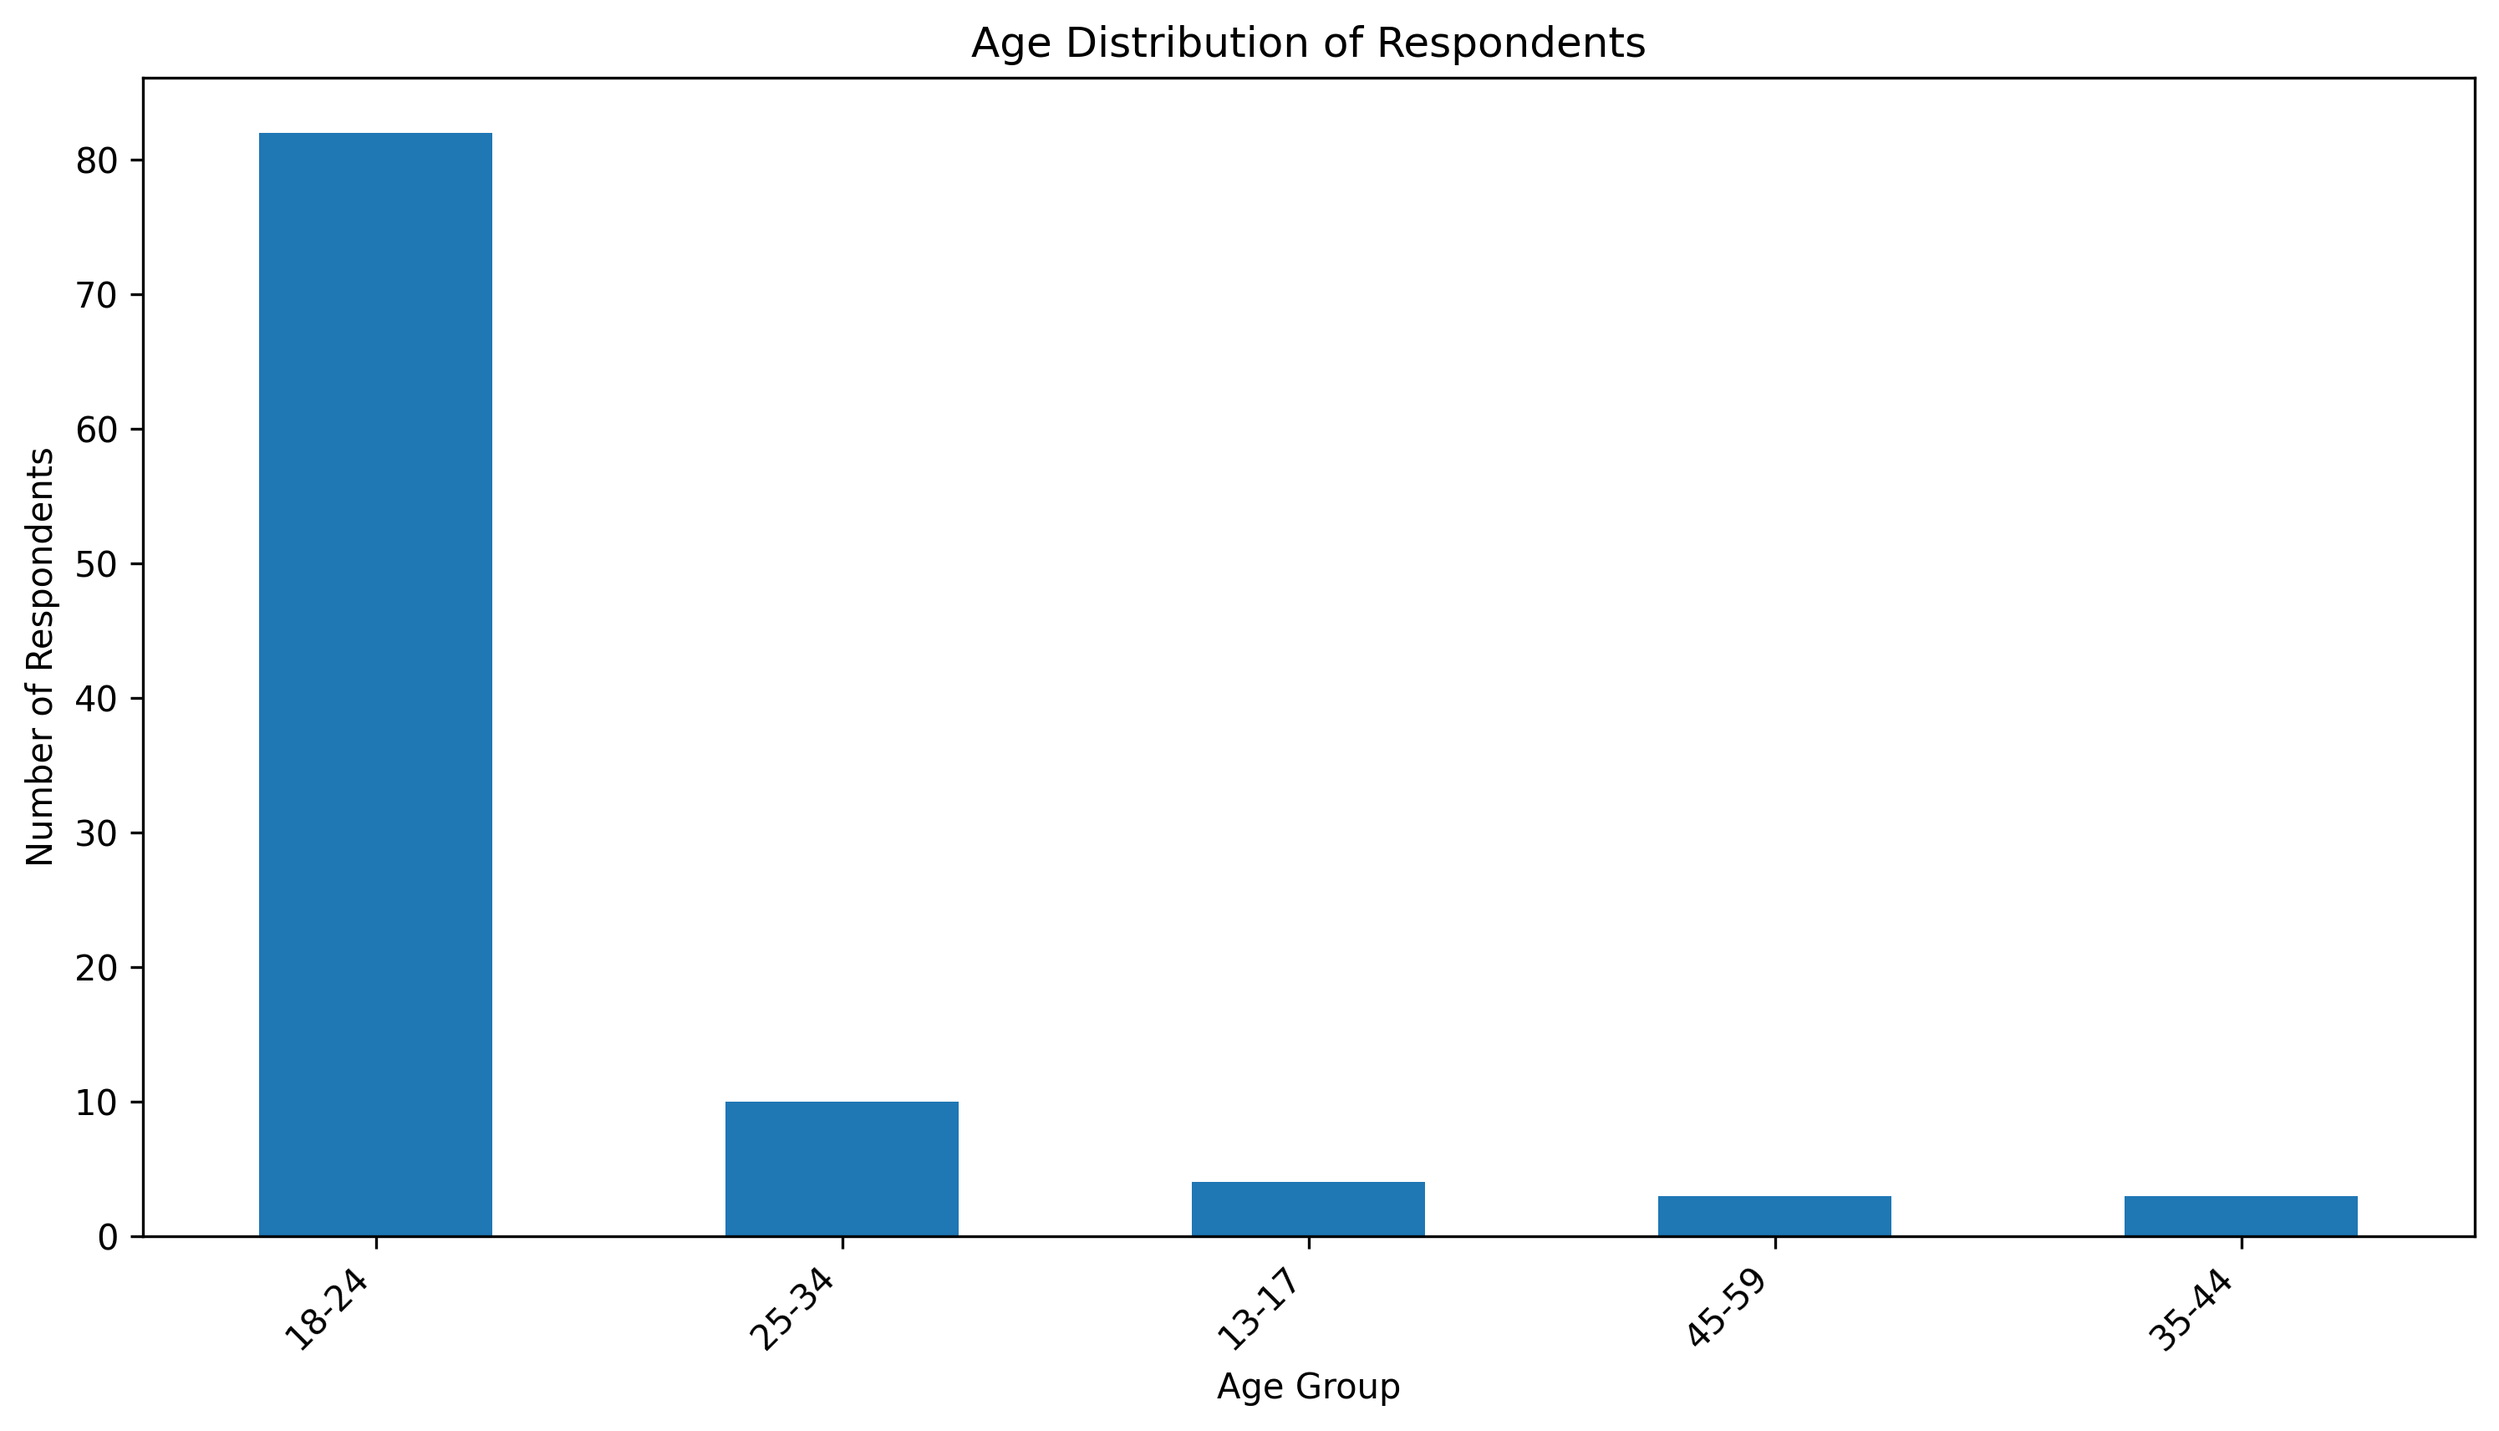
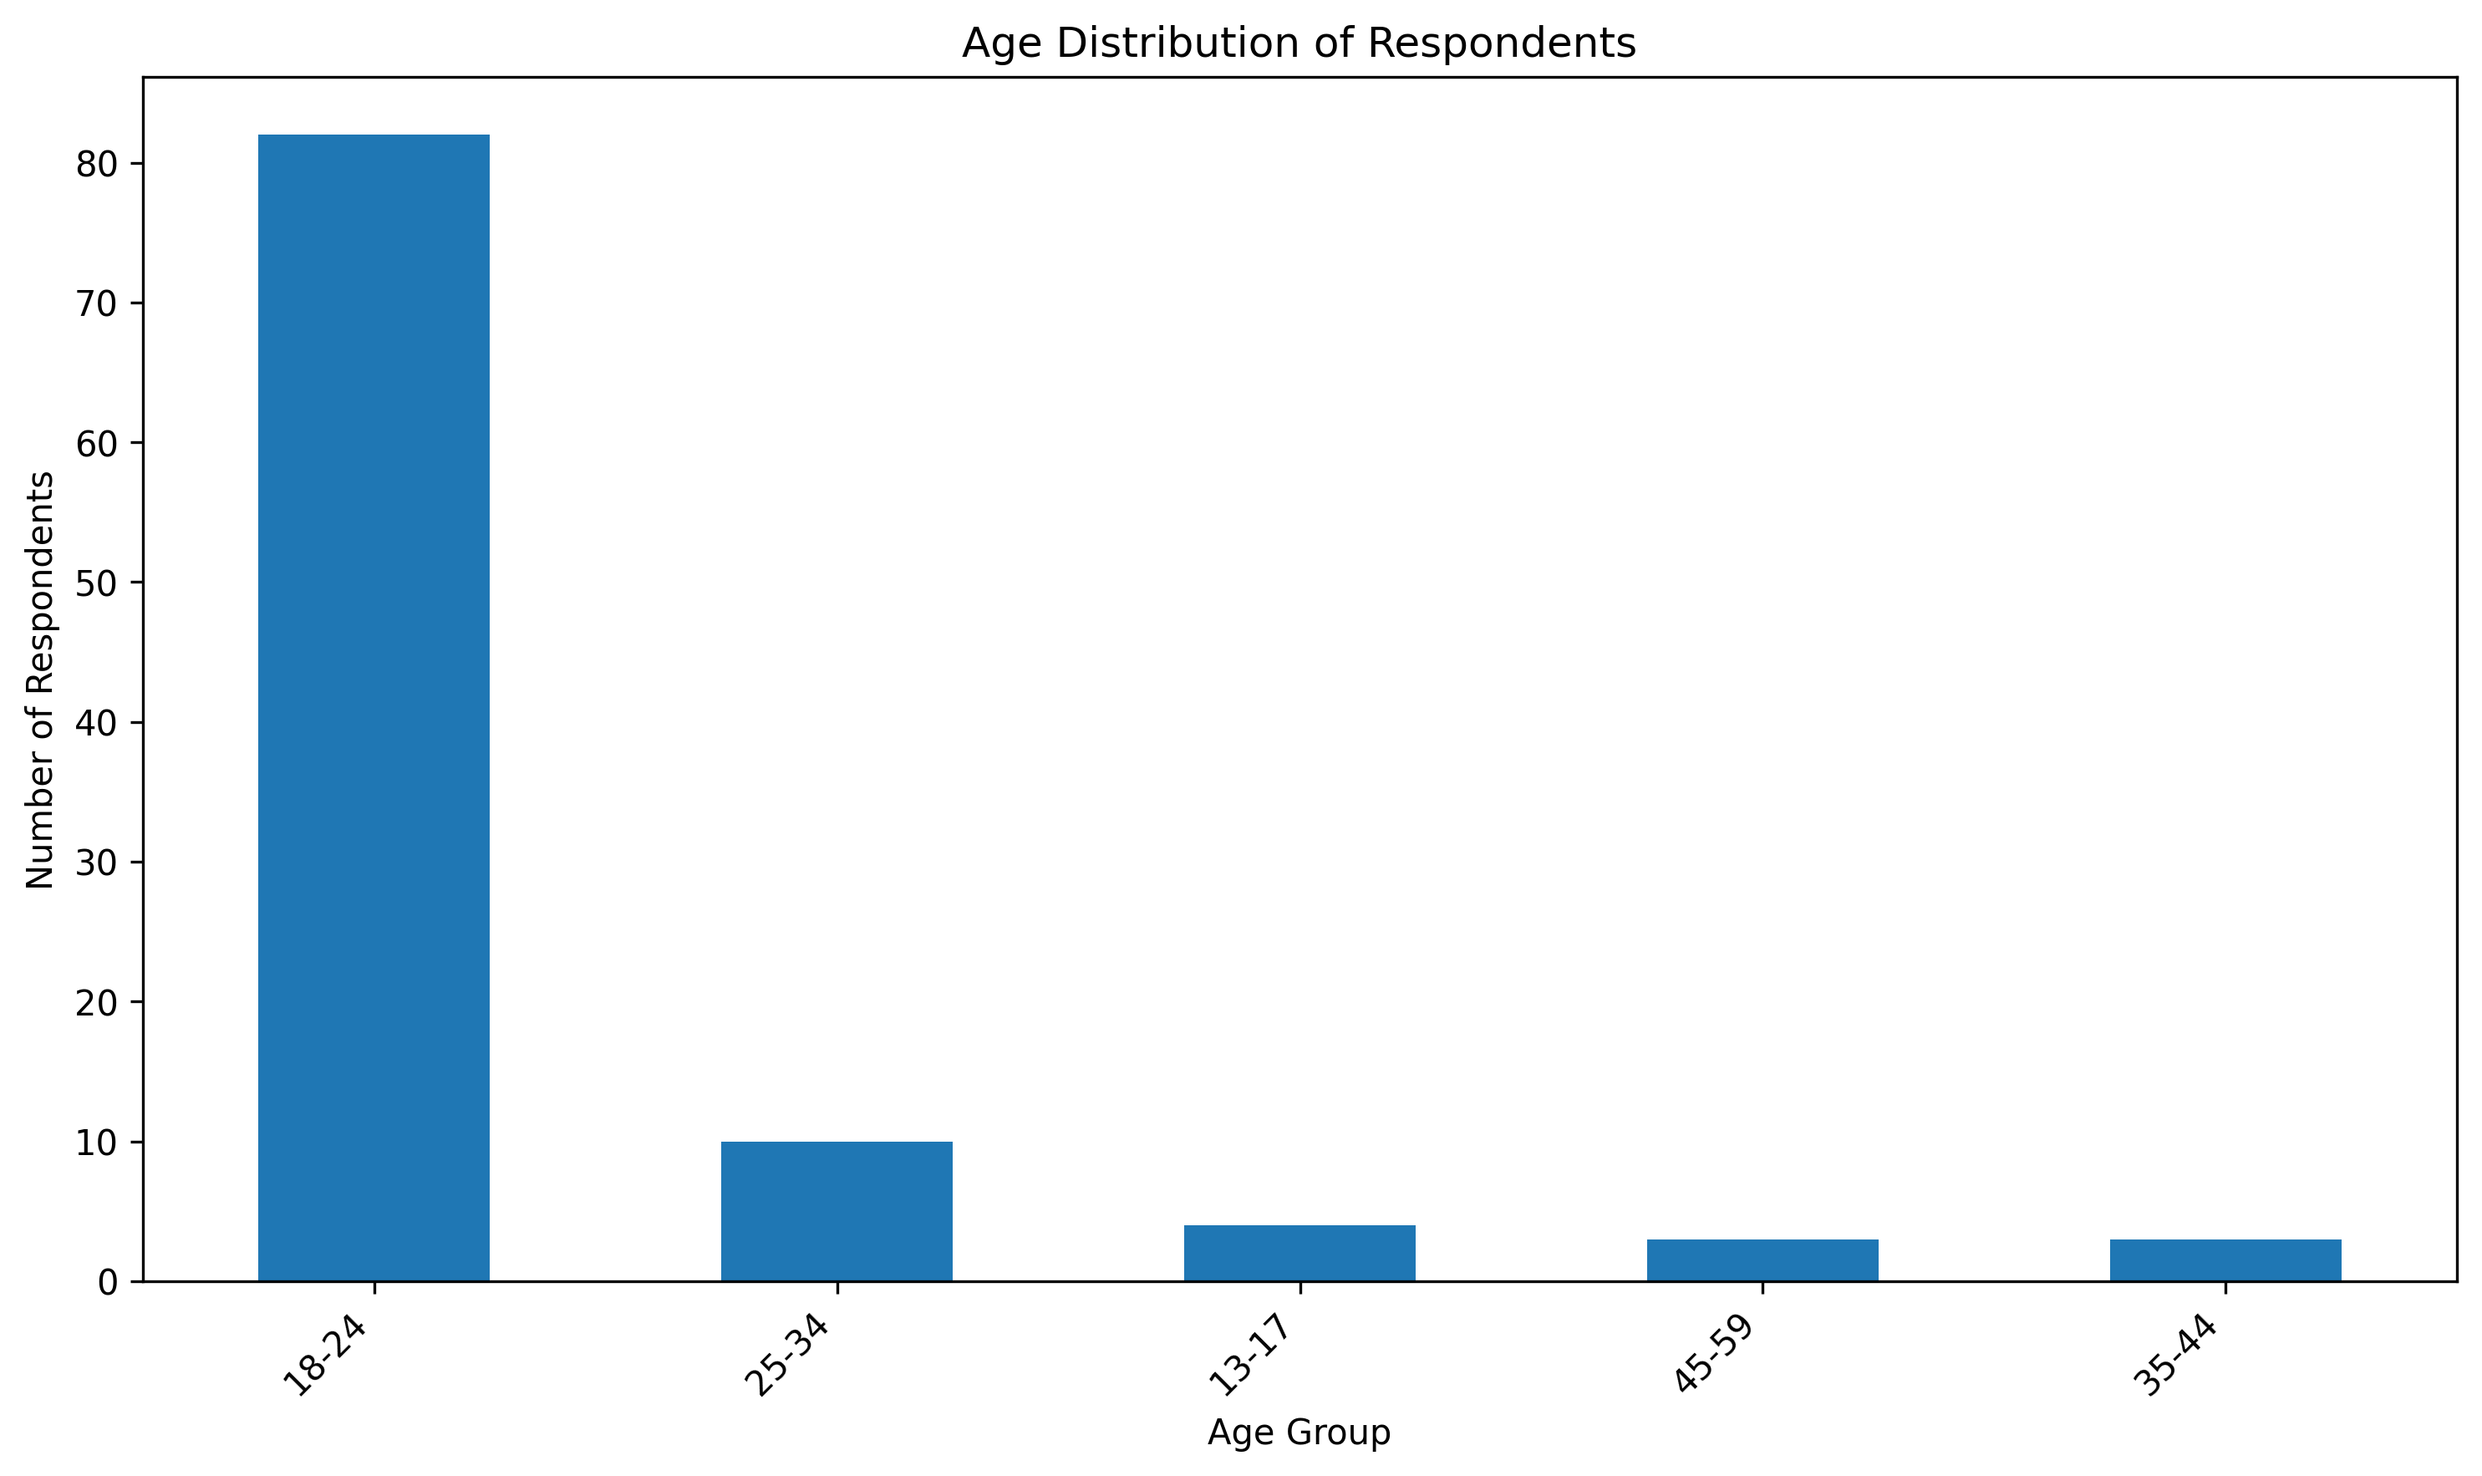
proper visualizations

diff --git a/src/descriptive_analysis.py b/src/descriptive_analysis.py
@@ -6,10 +6,12 @@ import re
 # PATH CONFIGURATION
 BASE_DIR = Path(__file__).resolve().parent.parent
 DATA_PATH = BASE_DIR / "data" / "processed" / "cleaned_survey.csv"
+FIG_DIR = BASE_DIR / "outputs" / "figures"
+FIG_DIR.mkdir(parents=True, exist_ok=True)
 
 df = pd.read_csv(DATA_PATH)
 
-# COLUMN NAMES (YOUR EXACT HEADERS)
+# COLUMN NAMES
 COL_AGE = "Age"
 COL_GENDER = "Gender"
 COL_OCC = "Current Occupation"
@@ -23,6 +25,7 @@ COL_TRIPTIME = "Among the following when do you usually take a trip to the groce
 COL_DURATION = "What would be the duration that you typically spend in a grocery store?"
 COL_PRODUCTS = "Which among the following products and goods do you usually buy? (Select all that apply)"
 
+
 # HELPER FUNCTIONS
 def clean_text(x):
     if pd.isna(x):
@@ -31,12 +34,8 @@ def clean_text(x):
     x = re.sub(r"\s+", " ", x)
     return x
 
+
 def split_multiselect(value: str):
-    """
-    Safe split for Google Forms multi-select fields.
-    - If colon-labeled options exist, split only at new label boundaries.
-    - Otherwise, split by commas.
-    """
     value = clean_text(value)
     if not value:
         return []
@@ -47,114 +46,162 @@ def split_multiselect(value: str):
 
     return [p.strip() for p in value.split(",") if p.strip()]
 
+
 def multiselect_counts(series: pd.Series) -> pd.Series:
-    """
-    Count frequency of each selection in a multi-select column.
-    """
     all_items = []
     for v in series:
         all_items.extend(split_multiselect(v))
     return pd.Series(all_items).value_counts()
 
-def show_bar(series: pd.Series, title: str, xlabel: str, ylabel: str, top_n: int = None):
-    """
-    Display a bar chart for a series (value_counts output).
-    """
+
+def save_bar(series: pd.Series, title: str, xlabel: str, ylabel: str, filename: str,
+             top_n: int = None, horizontal: bool = False):
     s = series.copy()
     if top_n is not None:
         s = s.head(top_n)
 
-    s.plot(kind="bar")
+    plt.figure(figsize=(10, 6))
+
+    if horizontal:
+        s.sort_values().plot(kind="barh")
+    else:
+        s.plot(kind="bar")
+
     plt.title(title)
     plt.xlabel(xlabel)
     plt.ylabel(ylabel)
+    plt.xticks(rotation=45, ha="right")
     plt.tight_layout()
-    plt.show()
+    plt.savefig(FIG_DIR / filename, dpi=300, bbox_inches="tight")
+    plt.close()
 
 
-# DESCRIPTIVE ANALYSES (8)
+def save_pie(series: pd.Series, title: str, filename: str):
+    plt.figure(figsize=(7, 7))
+    series.plot(kind="pie", autopct="%1.1f%%")
+    plt.title(title)
+    plt.ylabel("")
+    plt.tight_layout()
+    plt.savefig(FIG_DIR / filename, dpi=300, bbox_inches="tight")
+    plt.close()
 
-# 1) Age distribution
+
+def save_crosstab_bar(ct: pd.DataFrame, title: str, xlabel: str, ylabel: str, filename: str,
+                      stacked: bool = False):
+    plt.figure(figsize=(11, 6))
+    ct.plot(kind="bar", stacked=stacked, ax=plt.gca())
+    plt.title(title)
+    plt.xlabel(xlabel)
+    plt.ylabel(ylabel)
+    plt.xticks(rotation=45, ha="right")
+    plt.tight_layout()
+    plt.savefig(FIG_DIR / filename, dpi=300, bbox_inches="tight")
+    plt.close()
+
+
+# ANALYSES
+
 def analysis_01_age():
     res = df[COL_AGE].value_counts()
     print("\n[1] AGE DISTRIBUTION")
     print(res)
-    show_bar(res, "Age Distribution of Respondents", "Age Group", "Number of Respondents")
+    save_bar(res, "Age Distribution of Respondents", "Age Group", "Number of Respondents",
+             "01_age_distribution.png")
 
-# 2) Gender distribution
+
 def analysis_02_gender():
     res = df[COL_GENDER].value_counts()
     print("\n[2] GENDER DISTRIBUTION")
     print(res)
-    res.plot(kind="pie", autopct="%1.1f%%", title="Gender Distribution")
-    plt.ylabel("")
-    plt.tight_layout()
-    plt.show()
+    save_pie(res, "Gender Distribution", "02_gender_distribution.png")
 
-# 3) Occupation distribution
+
 def analysis_03_occupation():
     res = df[COL_OCC].value_counts()
     print("\n[3] OCCUPATION DISTRIBUTION")
     print(res)
-    show_bar(res, "Occupation of Respondents", "Occupation", "Count")
+    save_bar(res, "Occupation of Respondents", "Occupation", "Count",
+             "03_occupation_distribution.png")
 
-# 4) Monthly income distribution
+
 def analysis_04_income():
     res = df[COL_INCOME].value_counts()
     print("\n[4] INCOME DISTRIBUTION")
     print(res)
-    show_bar(res, "Monthly Income / Allowance Distribution", "Income Range", "Number of Respondents")
+    save_bar(res, "Monthly Income / Allowance Distribution", "Income Range", "Number of Respondents",
+             "04_income_distribution.png")
 
-# 5) Shopping frequency distribution
+
 def analysis_05_frequency():
     res = df[COL_FREQ].value_counts()
     print("\n[5] SHOPPING FREQUENCY")
     print(res)
-    show_bar(res, "Shopping Frequency per Month", "Frequency", "Number of Respondents")
+    save_bar(res, "Shopping Frequency per Month", "Frequency", "Number of Respondents",
+             "05_shopping_frequency.png")
 
-# 6) Monthly grocery spending distribution
+
 def analysis_06_spending():
     res = df[COL_SPEND].value_counts()
     print("\n[6] MONTHLY GROCERY SPENDING")
     print(res)
-    show_bar(res, "Monthly Grocery Spending", "Spending Range", "Number of Respondents")
+    save_bar(res, "Monthly Grocery Spending", "Spending Range", "Number of Respondents",
+             "06_monthly_spending.png")
 
-# 7) Most common grocery stores visited (multi-select)
+
 def analysis_07_stores():
     res = multiselect_counts(df[COL_STORES])
     print("\n[7] GROCERY STORES FREQUENCY (MULTI-SELECT)")
     print(res)
-    show_bar(res, "Most Common Grocery Stores Visited", "Grocery Store", "Number of Mentions", top_n=10)
+    save_bar(res, "Most Common Grocery Stores Visited", "Number of Mentions", "Grocery Store",
+             "07_grocery_stores_top10.png", top_n=10, horizontal=True)
 
-# 8) Product categories purchased (multi-select; supports ARM context)
+
 def analysis_08_products():
     res = multiselect_counts(df[COL_PRODUCTS])
     print("\n[8] PRODUCT CATEGORY PURCHASE FREQUENCY (MULTI-SELECT)")
     print(res)
-    show_bar(res, "Most Purchased Product Categories", "Product Category", "Number of Mentions", top_n=15)
+    save_bar(res, "Most Purchased Product Categories", "Number of Mentions", "Product Category",
+             "08_product_categories_frequency.png", top_n=15, horizontal=True)
 
 
-# OPTIONAL EXTRA (GOOD ADD-ONS IF YOU WANT 10+ ANALYSES)
-def extra_payment_methods():
-    res = multiselect_counts(df[COL_PAYMENT])
-    print("\n[EXTRA] PAYMENT METHODS (MULTI-SELECT)")
-    print(res)
-    show_bar(res, "Payment Methods Used", "Payment Method", "Number of Mentions")
+def analysis_09_frequency_vs_spending():
+    ct = pd.crosstab(df[COL_FREQ], df[COL_SPEND])
+    print("\n[9] SHOPPING FREQUENCY VS MONTHLY GROCERY SPENDING")
+    print(ct)
+    save_crosstab_bar(
+        ct,
+        "Shopping Frequency vs Monthly Grocery Spending",
+        "Shopping Frequency",
+        "Number of Respondents",
+        "09_frequency_vs_spending.png",
+        stacked=False
+    )
+
 
 def extra_primary_factors():
     res = multiselect_counts(df[COL_FACTORS])
-    print("\n[EXTRA] PRIMARY FACTORS IN A GROCERY STORE (MULTI-SELECT)")
+    print("\n[EXTRA] PRIMARY FACTORS IN A GROCERY STORE")
     print(res)
-    show_bar(res, "Primary Factors Considered in a Grocery Store", "Factor", "Number of Mentions", top_n=10)
+    save_bar(res, "Primary Factors Considered in a Grocery Store", "Number of Mentions", "Factor",
+             "10_primary_factors_top10.png", top_n=10, horizontal=True)
+
+
+def extra_payment_methods():
+    res = multiselect_counts(df[COL_PAYMENT])
+    print("\n[EXTRA] PAYMENT METHODS")
+    print(res)
+    save_bar(res, "Payment Methods Used", "Number of Mentions", "Payment Method",
+             "11_payment_methods.png", horizontal=True)
+
 
 def extra_trip_time():
     res = df[COL_TRIPTIME].value_counts()
     print("\n[EXTRA] TIME OF TRIP TO GROCERY")
     print(res)
-    show_bar(res, "Usual Time of Grocery Trips", "Time of Day", "Number of Respondents")
+    save_bar(res, "Usual Time of Grocery Trips", "Time of Day", "Number of Respondents",
+             "12_trip_time.png")
 
 
-# MAIN
 def main():
     analysis_01_age()
     analysis_02_gender()
@@ -164,11 +211,13 @@ def main():
     analysis_06_spending()
     analysis_07_stores()
     analysis_08_products()
+    analysis_09_frequency_vs_spending()
 
-    # Optional extras (uncomment if needed)
-    # extra_payment_methods()
-    # extra_primary_factors()
-    # extra_trip_time()
+    # optional extras
+    extra_primary_factors()
+    extra_payment_methods()
+    extra_trip_time()
+
 
 if __name__ == "__main__":
     main()
